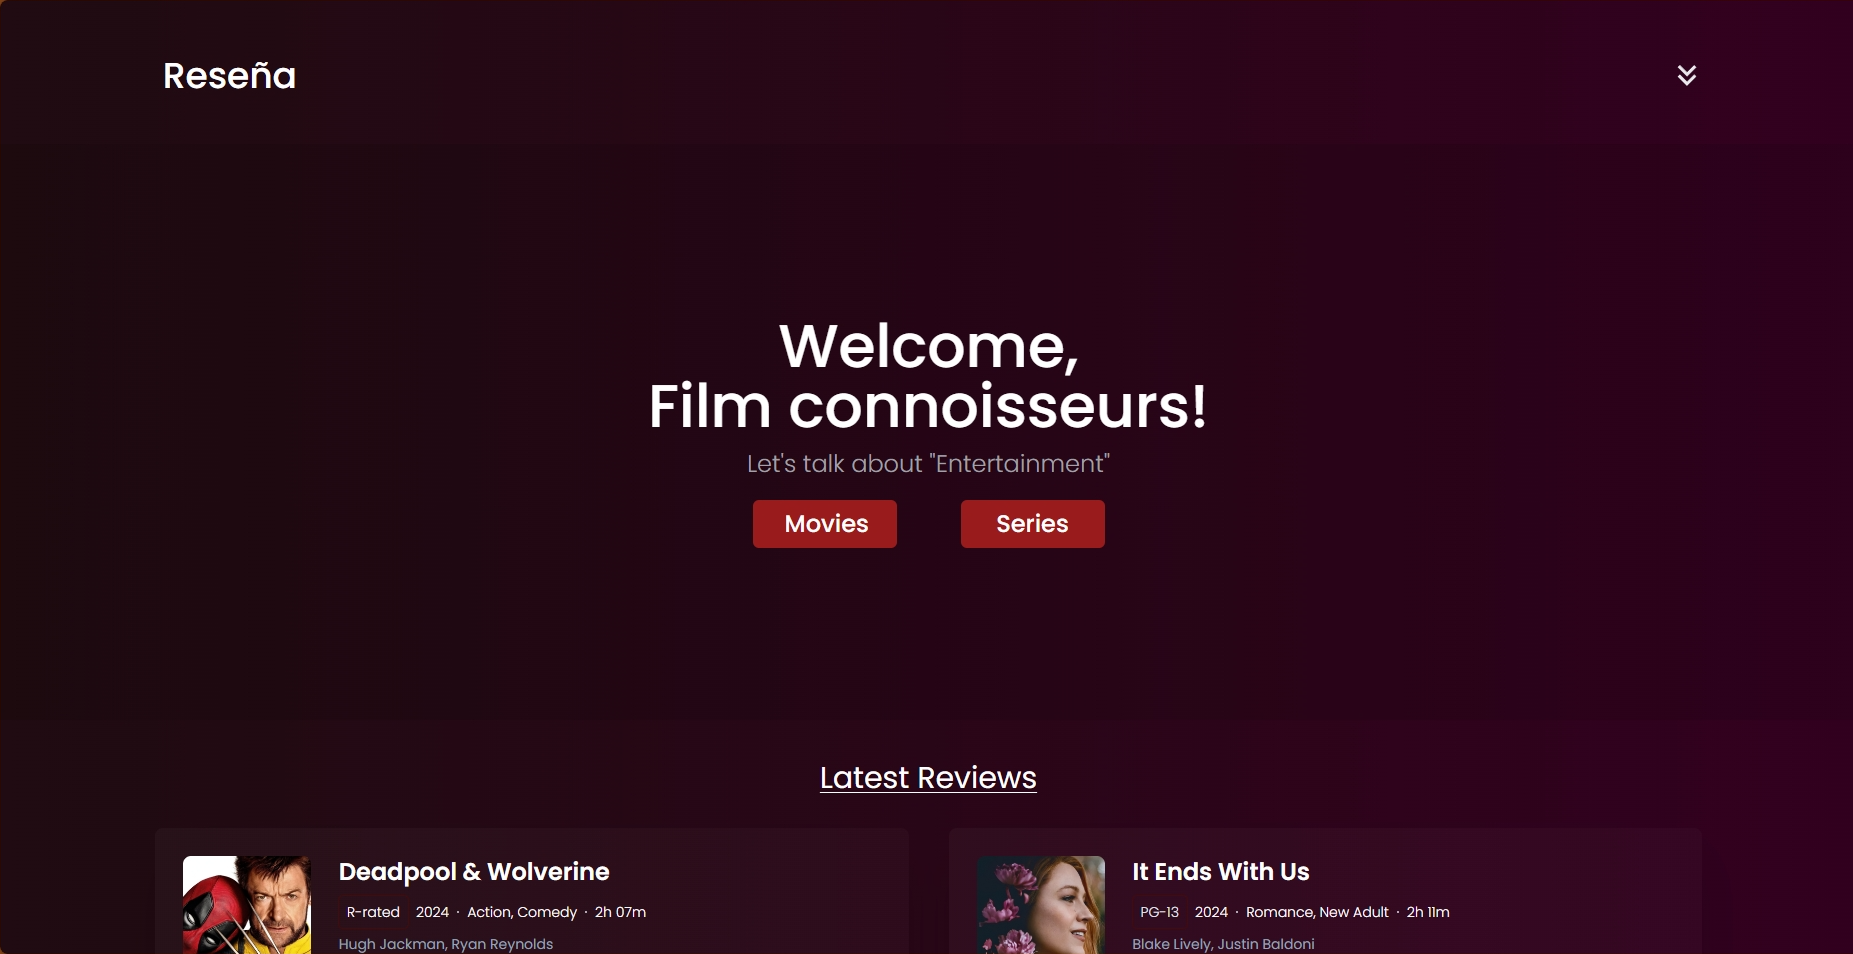
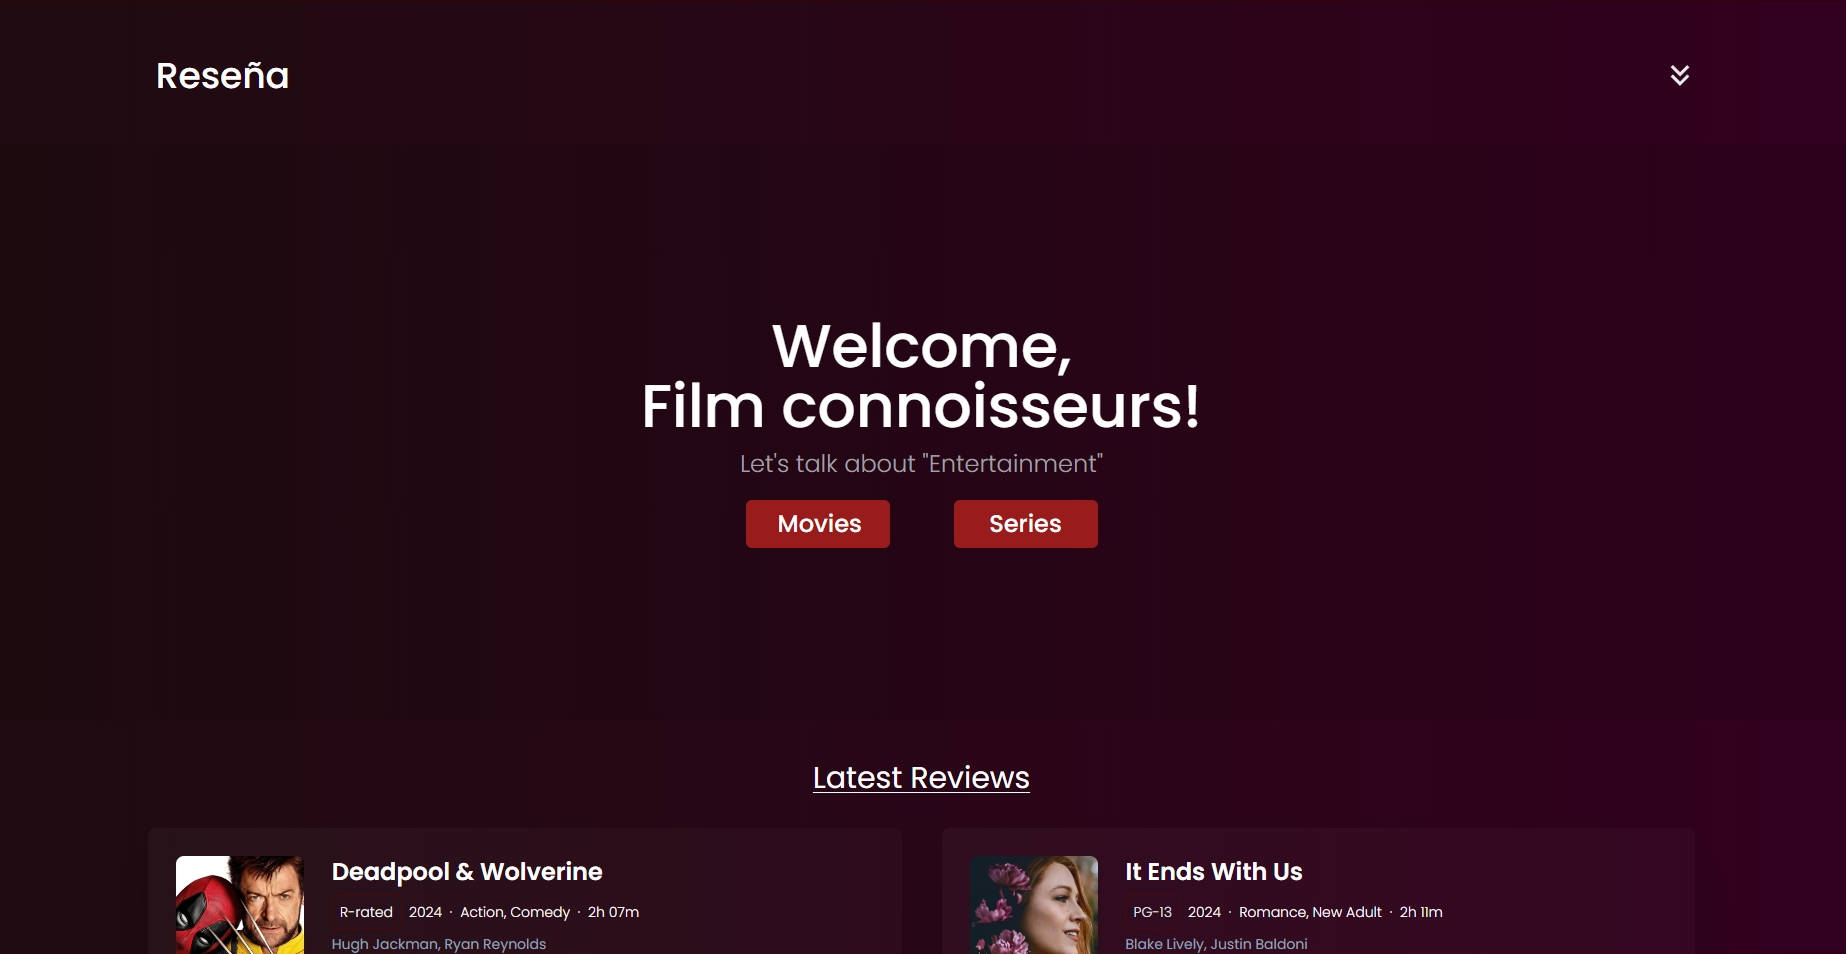
Added a new project

diff --git a/Client/src/components/HomeBody.jsx b/Client/src/components/HomeBody.jsx
@@ -3,8 +3,8 @@ import { Link } from "react-router-dom";
 
 function HomeBody() {
   return (
-    <div className="grid grid-cols-12 gap-y-7 tablet:gap-y-10 mt-2 tablet:mt-7 laptop:mt-1 text-white">
-      <div className="bg-zinc-950 col-span-10 col-start-2 p-5 tablet:p-7 laptop:p-11 h-36 tablet:h-56 laptop:h-64 rounded-lg">
+    <div className="flex flex-col justify-center items-center  gap-y-7 tablet:gap-y-10 mt-2 tablet:mt-7 laptop:mt-1 text-white">
+      <div className="bg-zinc-950 w-10/12 p-5 tablet:p-7 laptop:p-11 h-36 tablet:h-56 laptop:h-64 rounded-lg">
         <div className="text-3xl tablet:text-6xl laptop:text-7xl mb-3 tablet:mb-6 flex flex-col font-semibold">
           <div className="text-sm tablet:text-lg font-light">Hello! I'm</div>
           Yedhukrishna
@@ -19,7 +19,7 @@ function HomeBody() {
       </div>
       <Link
         to="/Services"
-        className="col-start-3 col-span-8 laptop:col-start-4 laptop:col-span-6 p-5 tablet:p-6 laptop:p-7 text-lg tablet:text-3xl text-center tablet:text-right laptop:text-right overflow-hidden relative font-semibold"
+        className="w-8/12 p-5 tablet:p-6 laptop:p-7 text-lg tablet:text-3xl text-center tablet:text-right laptop:text-right overflow-hidden relative font-semibold"
       >
         <div className="absolute w-48 tablet:w-72 laptop:w-96 top-0 pt-2 serviceOne animate_scroll left-[100%]">
           WEB DEVELOPER
@@ -31,7 +31,7 @@ function HomeBody() {
           3D-MODELLIST
         </div>
       </Link>
-      <div className="bg-zinc-950 col-span-10 col-start-2 p-5 tablet:p-8 laptop:p-12 laptop:mb-8 rounded-lg">
+      <div className="bg-zinc-950 w-10/12 p-5 tablet:p-8 laptop:p-12 laptop:mb-8 rounded-lg">
         <div className="font-audio tablet:text-3xl laptop:text-2xl tablet:mb-3 laptop:mb-0">
           About me
         </div>

diff --git a/Client/src/components/WorksDevop.jsx b/Client/src/components/WorksDevop.jsx
@@ -6,7 +6,7 @@ import { Link } from "react-router-dom";
 function WorksDevop() {
   const slides = [
     { url: "./dev1.jpeg", site: "https://yedhukrishnagk.netlify.app" },
-    { url: "./dev2.png", site: "https://www.resena.netlify.app" },
+    { url: "./dev2.png", site: "https://resena.netlify.app" },
   ];
   const [currentIndex, setCurrentIndex] = useState(0);
 
@@ -30,10 +30,10 @@ function WorksDevop() {
         Development Projects
       </div>
       <div className="col-start-2 col-span-10 w-full h-auto tablet:mt-3 rounded-lg desktop:mt-5 py-4 px-1 relative">
-        <a href={`${slides[currentIndex.site]}`} target="_blank">
+        <a href={slides[currentIndex].site} target="_blank">
           <img
-            className="w-full h-40 tablet:h-80 laptop:h-[500px] desktop:h-[660px] slide rounded-lg laptop:rounded-2xl duration-500"
-            src={`${slides[currentIndex].url}`}
+            classname="w-full h-40 tablet:h-80 laptop:h-[500px] desktop:h-[660px] slide rounded-lg laptop:rounded-2xl duration-500"
+            src={slides[currentIndex].url}
           />
         </a>
 
